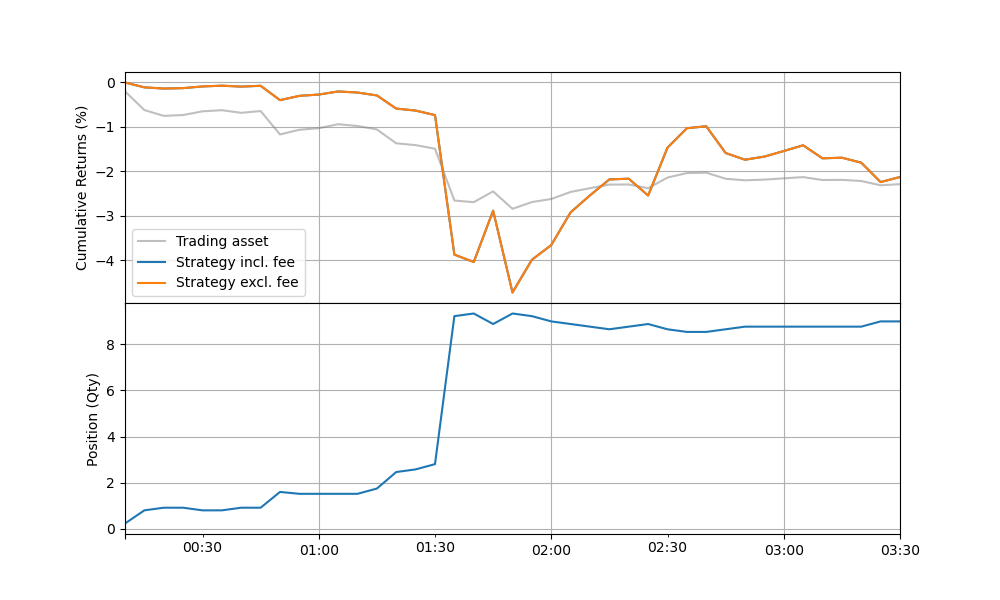
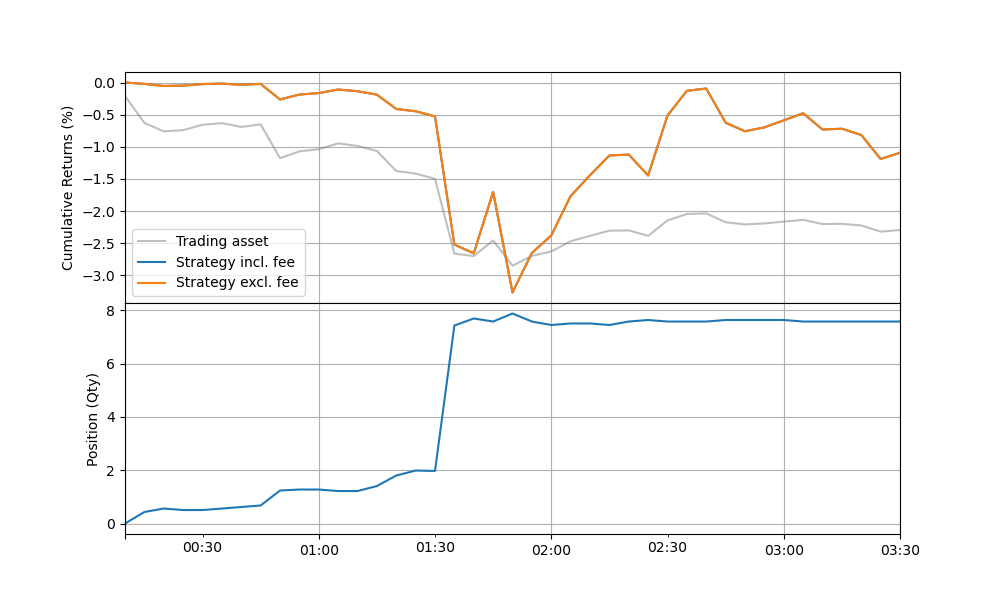
some changes

diff --git a/mmtester/single_mm_strategy.py b/mmtester/single_mm_strategy.py
@@ -34,8 +34,8 @@ class SingleMMStrategy(exchange.BaseStrategy):
         if record is not None:
             if record.counter > 0 and (record.counter  % self.frequency == 0 or self.requote):
                 self.exchange.cancel_all(record.timestamp, self.name)
-                self.quoter.q = self.position.total_qty * 3.0 / self.position.initial_balance
-                self.quoter.tau = (self.curr_step * self.frequency * self.data_frequency) % 3600
+                self.quoter.q = self.position.total_qty * 10.0 / self.position.initial_balance
+                self.quoter.tau = ((self.curr_step * self.frequency * self.data_frequency) % 3600000) / 3600000
                 (bids, asks) = self.quoter.quote(record.timestamp, self, 
                                                  record.get_instrument_data(self.instrument, "mid"), self.levels)
                 self.exchange.add_quotes(bids, asks)

diff --git a/sample.py b/sample.py
@@ -9,8 +9,8 @@ if __name__ == '__main__':
     df = pd.read_csv("./mmtester/data_generator/data/data.csv.gz", header=0, index_col=0, parse_dates=[0]).iloc[:24000]
     exch = Exchange(500, 500)
     instr = InverseInstrument("perp", 0, 0.0005)
-    quoter = ASQuoter(instr, 0, 0.1, 1.8, 1, 0.01, 2, 2, 0.01, 0.01, 1)
-    strategy = SingleMMStrategy("test_strategy", quoter, 2, instr,  3600, 5, 360, df.shape[0])
+    quoter = ASQuoter(instr, 0, 0.1, 2, 1, 0.05, 1.5, 1.5, 0.01, 0.01, 0.5)
+    strategy = SingleMMStrategy("test_strategy", quoter, 2, instr,  3600, 5, 60, df.shape[0])
     exch.register(strategy)
     exch.start(Data(df, 500))
     
